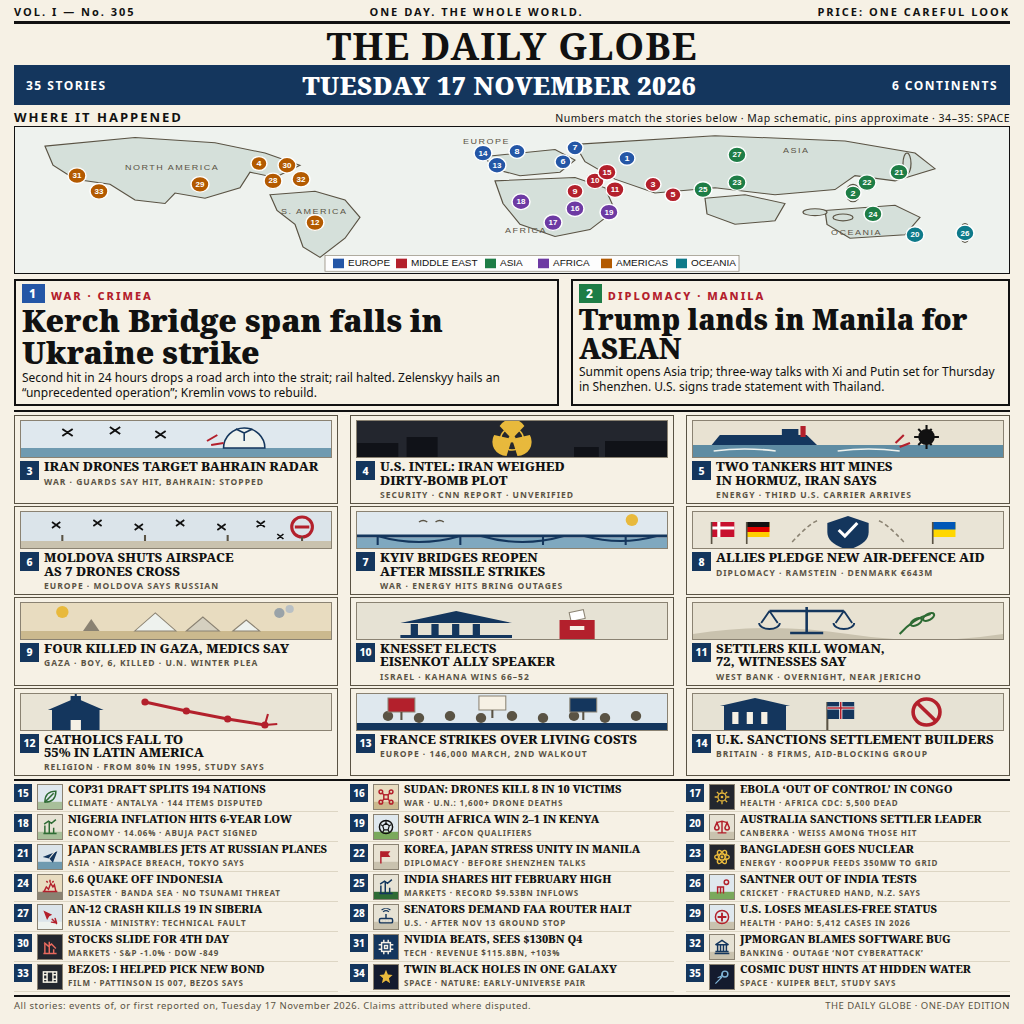
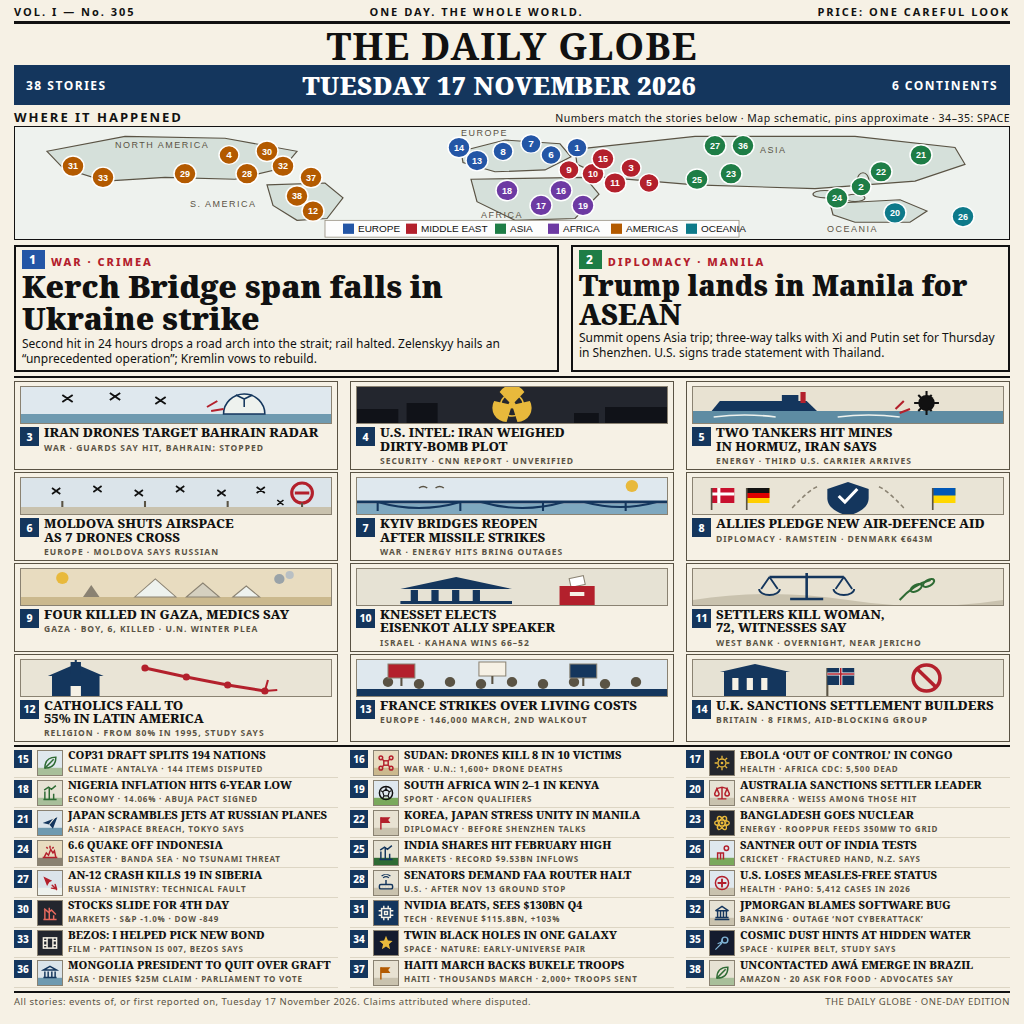
v4: 38 stories, simplified map with larger pins

diff --git a/render.html b/render.html
@@ -89,38 +89,37 @@
 
   <div class="topbar"><span>VOL. I &mdash; No. 305</span><span>ONE DAY. THE WHOLE WORLD.</span><span>PRICE: ONE CAREFUL LOOK</span></div>
   <h1>THE DAILY GLOBE</h1>
-  <div class="dateline"><span class="s">35 STORIES</span><span class="d">TUESDAY 17 NOVEMBER 2026</span><span class="s">6 CONTINENTS</span></div>
+  <div class="dateline"><span class="s">38 STORIES</span><span class="d">TUESDAY 17 NOVEMBER 2026</span><span class="s">6 CONTINENTS</span></div>
 
   <div class="maphead"><b>WHERE IT HAPPENED</b><span>Numbers match the stories below &middot; Map schematic, pins approximate &middot; 34&ndash;35: SPACE</span></div>
   <div class="map">
-    <svg viewBox="0 0 996 168" width="996" height="146" preserveAspectRatio="none">
+    <svg viewBox="0 0 996 120" width="996" height="112" preserveAspectRatio="none">
       <g fill="#d5e0da" stroke="#5a5344" stroke-width="1.2">
-        <path d="M30 22 L120 12 L200 18 L250 30 L285 44 L260 58 L235 52 L225 70 L190 82 L160 76 L150 88 L120 84 L95 66 L60 60 L38 44 Z"/>
-        <path d="M255 78 L300 74 L330 84 L345 104 L330 128 L305 150 L288 138 L280 112 L262 96 Z"/>
-        <path d="M470 34 L540 26 L560 38 L545 52 L505 56 L478 48 Z"/>
-        <path d="M480 62 L560 58 L590 70 L600 96 L575 118 L540 126 L505 112 L488 88 Z"/>
-        <path d="M560 20 L700 10 L830 16 L900 30 L920 48 L880 62 L840 56 L820 72 L760 78 L700 70 L640 76 L600 60 L570 40 Z"/>
-        <path d="M690 82 L730 78 L770 88 L760 108 L720 112 L692 100 Z"/>
-        <path d="M810 96 L880 90 L905 104 L890 124 L835 128 L812 112 Z"/>
-        <ellipse cx="838" cy="76" rx="7" ry="10"/>
-        <ellipse cx="800" cy="98" rx="12" ry="4"/><ellipse cx="828" cy="104" rx="10" ry="4"/>
-        <ellipse cx="892" cy="42" rx="4" ry="12"/>
-        <ellipse cx="950" cy="122" rx="5" ry="11"/>
+        <path d="M32 26 L110 10 L210 12 L282 26 L268 44 L220 56 L150 54 L90 58 L48 44 Z"/>
+        <path d="M252 62 L310 60 L328 76 L312 98 L282 100 L258 84 Z"/>
+        <path d="M446 26 L490 14 L545 18 L556 32 L530 46 L480 48 L448 38 Z"/>
+        <path d="M456 56 L570 54 L584 72 L560 98 L500 100 L462 80 Z"/>
+        <path d="M560 24 L680 10 L840 10 L940 22 L950 40 L900 58 L800 66 L680 62 L590 54 L562 40 Z"/>
+        <path d="M815 82 L885 78 L912 90 L895 102 L840 102 L818 94 Z"/>
+        <ellipse cx="848" cy="58" rx="6" ry="9"/>
+        <ellipse cx="810" cy="72" rx="12" ry="4"/><ellipse cx="840" cy="76" rx="10" ry="4"/>
+        <ellipse cx="905" cy="30" rx="4" ry="11"/>
+        <ellipse cx="948" cy="96" rx="5" ry="10"/>
       </g>
       <g font-family="sans-serif" font-size="9" fill="#5a5344" letter-spacing="1.5">
-        <text x="110" y="50">NORTH AMERICA</text><text x="266" y="100">S. AMERICA</text>
-        <text x="448" y="20">EUROPE</text><text x="490" y="122">AFRICA</text>
-        <text x="768" y="30">ASIA</text><text x="816" y="124">OCEANIA</text>
+        <text x="100" y="22">NORTH AMERICA</text><text x="175" y="86">S. AMERICA</text>
+        <text x="446" y="10">EUROPE</text><text x="466" y="98">AFRICA</text>
+        <text x="745" y="28">ASIA</text><text x="812" y="113">OCEANIA</text>
       </g>
       <g id="pins" font-family="sans-serif" font-weight="bold" text-anchor="middle"></g>
       <g font-family="sans-serif" font-size="10">
-        <rect x="310" y="148" width="414" height="18" fill="#ffffff" opacity="0.92" stroke="#8a8272" stroke-width="0.8"/>
-        <rect x="318" y="151.5" width="11" height="11" fill="#2456a6"/><text x="333" y="160.5" fill="#111">EUROPE</text>
-        <rect x="381" y="151.5" width="11" height="11" fill="#b3202c"/><text x="396" y="160.5" fill="#111">MIDDLE EAST</text>
-        <rect x="470" y="151.5" width="11" height="11" fill="#1e7d46"/><text x="485" y="160.5" fill="#111">ASIA</text>
-        <rect x="523" y="151.5" width="11" height="11" fill="#6d3aa3"/><text x="538" y="160.5" fill="#111">AFRICA</text>
-        <rect x="586" y="151.5" width="11" height="11" fill="#b35a00"/><text x="601" y="160.5" fill="#111">AMERICAS</text>
-        <rect x="661" y="151.5" width="11" height="11" fill="#0e7a8a"/><text x="676" y="160.5" fill="#111">OCEANIA</text>
+        <rect x="310" y="100" width="414" height="18" fill="#ffffff" opacity="0.92" stroke="#8a8272" stroke-width="0.8"/>
+        <rect x="328" y="103.5" width="11" height="11" fill="#2456a6"/><text x="343" y="112.5" fill="#111">EUROPE</text>
+        <rect x="391" y="103.5" width="11" height="11" fill="#b3202c"/><text x="406" y="112.5" fill="#111">MIDDLE EAST</text>
+        <rect x="480" y="103.5" width="11" height="11" fill="#1e7d46"/><text x="495" y="112.5" fill="#111">ASIA</text>
+        <rect x="533" y="103.5" width="11" height="11" fill="#6d3aa3"/><text x="548" y="112.5" fill="#111">AFRICA</text>
+        <rect x="596" y="103.5" width="11" height="11" fill="#b35a00"/><text x="611" y="112.5" fill="#111">AMERICAS</text>
+        <rect x="671" y="103.5" width="11" height="11" fill="#0e7a8a"/><text x="686" y="112.5" fill="#111">OCEANIA</text>
       </g>
     </svg>
   </div>
@@ -175,14 +174,17 @@
     <div class="idx"><span class="n">33</span><svg class="chip" viewBox="0 0 30 30" style="color:#f6f1e5"><rect width="30" height="30" fill="#23262e"/><use href="#i-film" x="4" y="4" width="22" height="22"/></svg><div><div class="h">BEZOS: I HELPED PICK NEW BOND</div><div class="l">FILM &middot; PATTINSON IS 007, BEZOS SAYS</div></div></div>
     <div class="idx"><span class="n">34</span><svg class="chip" viewBox="0 0 30 30" style="color:#e8b93c"><rect width="30" height="30" fill="#141b2e"/><use href="#i-star" x="4" y="4" width="22" height="22"/></svg><div><div class="h">TWIN BLACK HOLES IN ONE GALAXY</div><div class="l">SPACE &middot; NATURE: EARLY-UNIVERSE PAIR</div></div></div>
     <div class="idx"><span class="n">35</span><svg class="chip" viewBox="0 0 30 30" style="color:#7fb3d5"><rect width="30" height="30" fill="#141b2e"/><use href="#i-comet" x="4" y="4" width="22" height="22"/></svg><div><div class="h">COSMIC DUST HINTS AT HIDDEN WATER</div><div class="l">SPACE &middot; KUIPER BELT, STUDY SAYS</div></div></div>
+    <div class="idx"><span class="n">36</span><svg class="chip" viewBox="0 0 30 30" style="color:#14365d"><rect width="30" height="30" fill="#dbe4ea"/><rect y="21" width="30" height="9" fill="#6f9ab0"/><use href="#i-parl" x="4" y="4" width="22" height="22"/></svg><div><div class="h">MONGOLIA PRESIDENT TO QUIT OVER GRAFT</div><div class="l">ASIA &middot; DENIES $25M CLAIM &middot; PARLIAMENT TO VOTE</div></div></div>
+    <div class="idx"><span class="n">37</span><svg class="chip" viewBox="0 0 30 30" style="color:#b35a00"><rect width="30" height="30" fill="#e8e2d2"/><rect y="21" width="30" height="9" fill="#c9c2ae"/><use href="#i-flag" x="4" y="4" width="22" height="22"/></svg><div><div class="h">HAITI MARCH BACKS BUKELE TROOPS</div><div class="l">HAITI &middot; THOUSANDS MARCH &middot; 2,000+ TROOPS SENT</div></div></div>
+    <div class="idx"><span class="n">38</span><svg class="chip" viewBox="0 0 30 30" style="color:#2e6b34"><rect width="30" height="30" fill="#e6e2d4"/><rect y="21" width="30" height="9" fill="#a8bf9a"/><use href="#i-leaf" x="4" y="4" width="22" height="22"/></svg><div><div class="h">UNCONTACTED AW&Aacute; EMERGE IN BRAZIL</div><div class="l">AMAZON &middot; 20 ASK FOR FOOD &middot; ADVOCATES SAY</div></div></div>
   </div>
 
   <div class="foot"><span>All stories: events of, or first reported on, Tuesday 17 November 2026. Claims attributed where disputed.</span><span>THE DAILY GLOBE &middot; ONE-DAY EDITION</span></div>
 </div>
 <script>
 const C={EU:'#2456a6',ME:'#b3202c',AS:'#1e7d46',AF:'#6d3aa3',AM:'#b35a00',OC:'#0e7a8a'};
-const P=[[1,612,36,'EU'],[2,838,76,'AS'],[3,638,66,'ME'],[4,244,42,'AM'],[5,658,78,'ME'],[6,548,40,'EU'],[7,560,24,'EU'],[8,502,28,'EU'],[9,560,74,'ME'],[10,580,62,'ME'],[11,600,72,'ME'],[12,300,110,'AM'],[13,482,44,'EU'],[14,468,30,'EU'],[15,592,52,'ME'],[16,560,94,'AF'],[17,538,110,'AF'],[18,506,86,'AF'],[19,594,98,'AF'],[20,900,124,'OC'],[21,884,52,'AS'],[22,852,64,'AS'],[23,722,64,'AS'],[24,858,100,'AS'],[25,688,72,'AS'],[26,950,122,'OC'],[27,722,32,'AS'],[28,258,62,'AM'],[29,185,66,'AM'],[30,272,44,'AM'],[31,62,56,'AM'],[32,286,60,'AM'],[33,84,74,'AM']];
+const P=[[1,562,22,'EU'],[2,846,64,'AS'],[3,616,44,'ME'],[4,214,30,'AM'],[5,634,60,'ME'],[6,536,30,'EU'],[7,516,18,'EU'],[8,488,26,'EU'],[9,554,46,'ME'],[10,578,50,'ME'],[11,600,60,'ME'],[12,298,90,'AM'],[13,462,36,'EU'],[14,444,22,'EU'],[15,588,34,'ME'],[16,546,68,'AF'],[17,526,84,'AF'],[18,492,68,'AF'],[19,568,84,'AF'],[20,880,92,'OC'],[21,906,30,'AS'],[22,866,48,'AS'],[23,716,50,'AS'],[24,822,76,'AS'],[25,682,56,'AS'],[26,948,96,'OC'],[27,700,20,'AS'],[28,232,50,'AM'],[29,170,50,'AM'],[30,252,26,'AM'],[31,58,42,'AM'],[32,268,42,'AM'],[33,88,54,'AM'],[36,728,20,'AS'],[37,296,54,'AM'],[38,282,74,'AM']];
 const g=document.getElementById('pins');
-P.forEach(([n,x,y,r])=>{const c=document.createElementNS('http://www.w3.org/2000/svg','circle');c.setAttribute('cx',x);c.setAttribute('cy',y);c.setAttribute('r',n>9?9:8);c.setAttribute('fill',C[r]);c.setAttribute('stroke','#fff');c.setAttribute('stroke-width','1.5');g.appendChild(c);const t=document.createElementNS('http://www.w3.org/2000/svg','text');t.setAttribute('x',x);t.setAttribute('y',y+3);t.setAttribute('fill','#fff');t.setAttribute('font-size',n>9?8:9);t.textContent=n;g.appendChild(t);});
+P.forEach(([n,x,y,r])=>{const c=document.createElementNS('http://www.w3.org/2000/svg','circle');c.setAttribute('cx',x);c.setAttribute('cy',y);c.setAttribute('r',n>9?11:10);c.setAttribute('fill',C[r]);c.setAttribute('stroke','#fff');c.setAttribute('stroke-width','1.5');g.appendChild(c);const t=document.createElementNS('http://www.w3.org/2000/svg','text');t.setAttribute('x',x);t.setAttribute('y',y+3.5);t.setAttribute('fill','#fff');t.setAttribute('font-size',n>9?9:10);t.textContent=n;g.appendChild(t);});
 </script>
 </body></html>

diff --git a/README.md b/README.md
@@ -4,7 +4,7 @@
 [![rank](https://make.fun/badge/news-image-20261117/RizzZzze/news-image-20261117/rank.svg)](https://make.fun/bounty/news-image-20261117/leaderboard?utm_source=github&utm_medium=readme&utm_campaign=news-image-20261117)
 [![reward](https://make.fun/badge/news-image-20261117/RizzZzze/news-image-20261117/reward.svg)](https://make.fun/bounty/news-image-20261117?utm_source=github&utm_medium=readme&utm_campaign=news-image-20261117)
 
-One newspaper front page summing up Tuesday 17 November 2026: 35 verified stories from six continents, two lead stories, a numbered world map, and a story index. Built by an AI agent for make.fun's "Sum up 17 November's world news in one image" bounty.
+One newspaper front page summing up Tuesday 17 November 2026: 38 verified stories from six continents, two lead stories, a numbered world map, and a story index. Built by an AI agent for make.fun's "Sum up 17 November's world news in one image" bounty.
 
 `render.html` is the page source (headless-Chrome screenshot produced `entry.png`); `main.py` copies `entry.png` to the output directory, standard library only, so both runs are byte-identical. Every story is an event of, or first reported on, 17 November 2026 in some time zone; disputed claims are attributed in the image.
 
